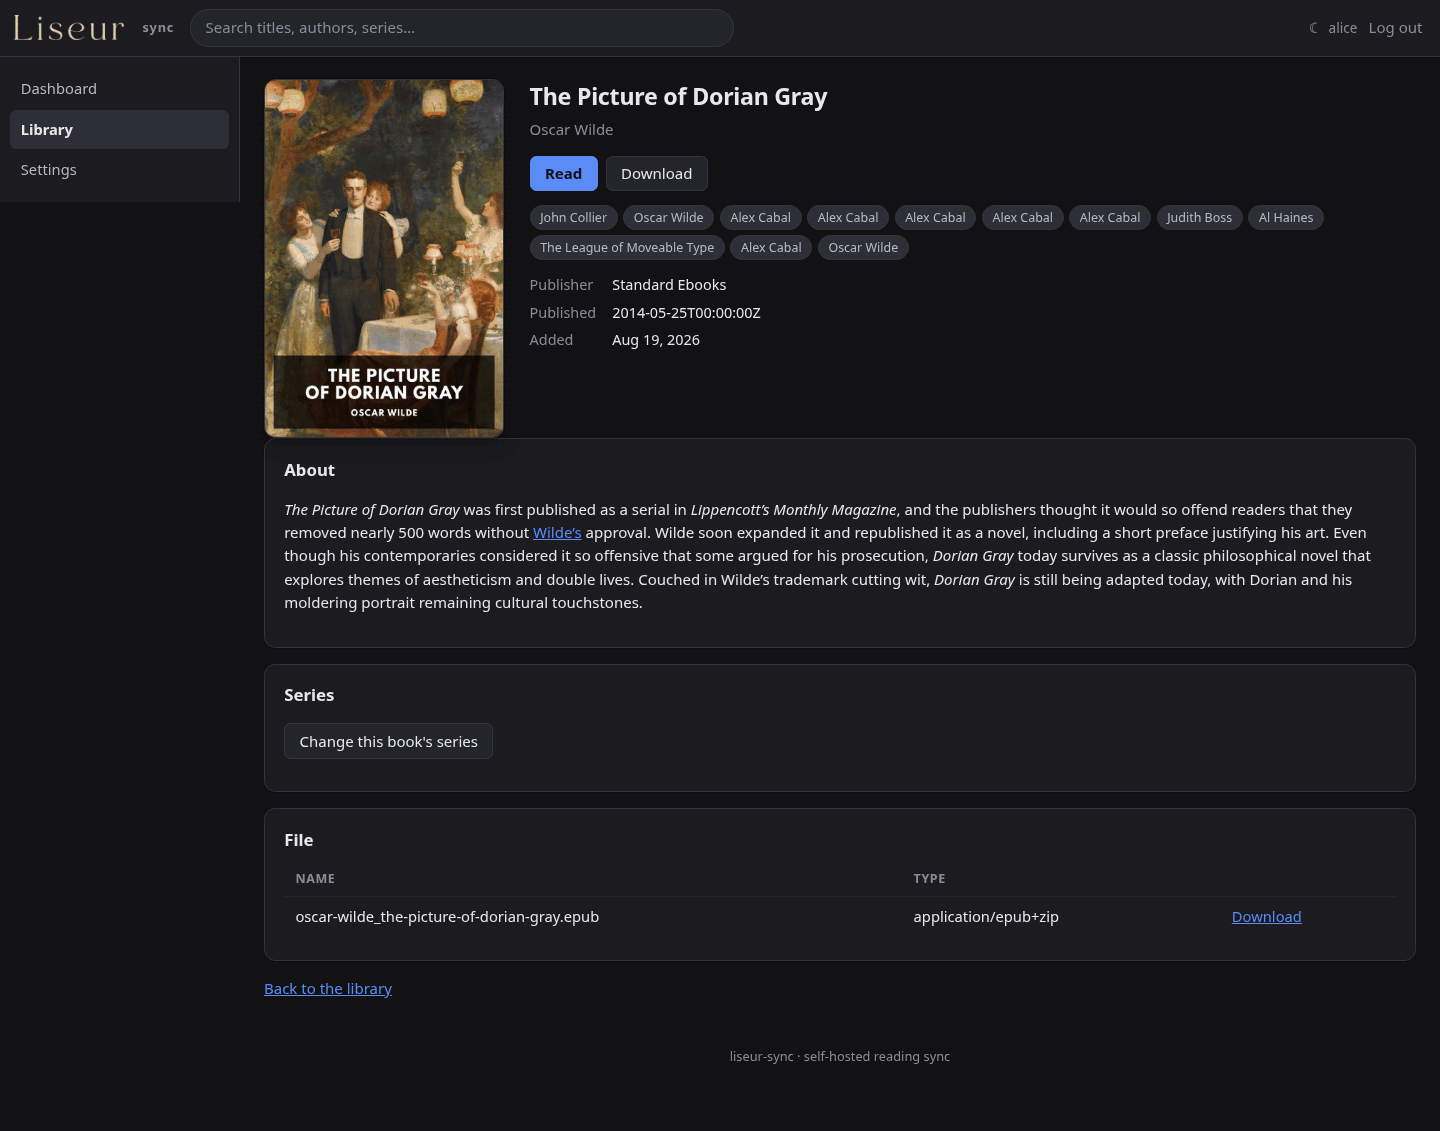
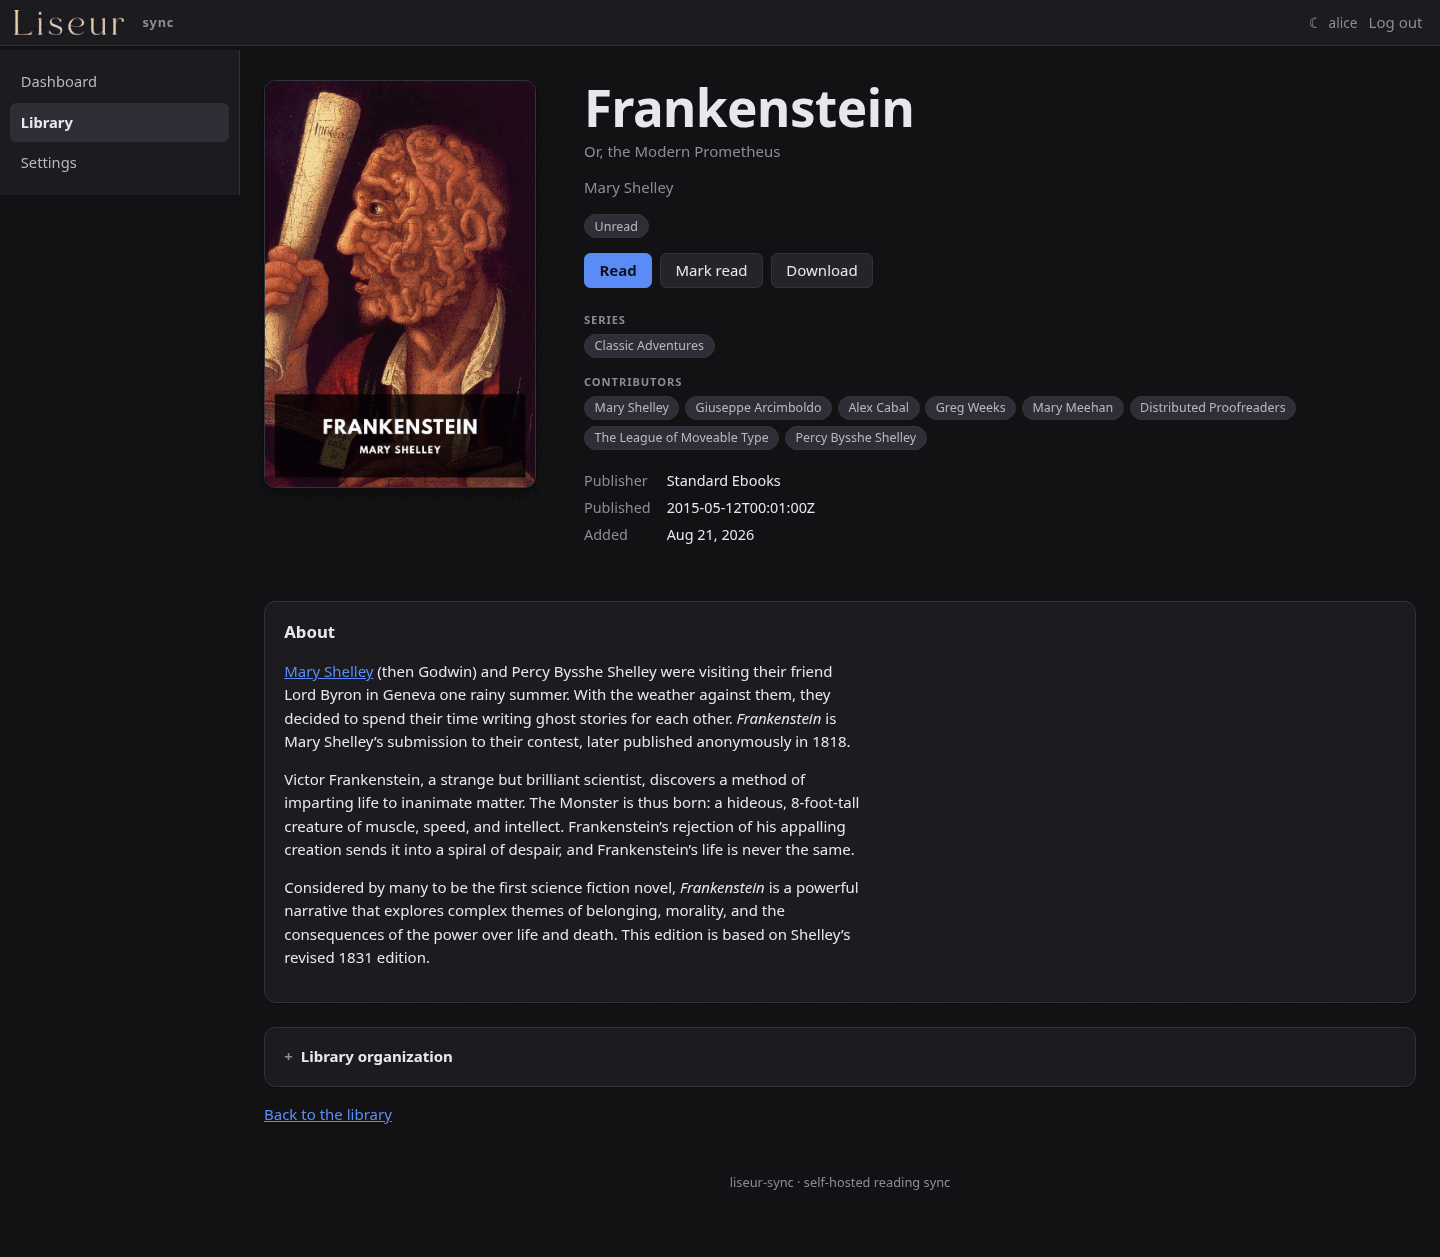
feat: refresh reading library UI

diff --git a/internal/webui/static/style.css b/internal/webui/static/style.css
@@ -40,7 +40,7 @@
 	/* A cover is taller than it is wide, and a grid that assumes one
 	   ratio is calmer than a grid that lets every publisher choose. */
 	--cover-ratio: 2 / 3;
-	--card-min: 9.5rem;
+	--card-min: 11.5rem;
 }
 
 [data-theme="light"] {
@@ -233,16 +233,6 @@ h3 { font-size: .95rem; margin: 0 0 .4rem; }
 }
 @media (max-width: 32em) { .brand .suffix { display: none; } }
 
-.topsearch { flex: 1; max-width: 34rem; margin: 0; display: flex; }
-.topsearch input {
-	width: 100%;
-	background: var(--surface-2);
-	border: 1px solid var(--line);
-	border-radius: 2rem;
-	padding: .4rem .9rem;
-}
-.topsearch input::placeholder { color: var(--muted); }
-
 .account { margin-left: auto; display: flex; align-items: center; gap: .5rem; }
 .account .who { color: var(--muted); font-size: .85rem; }
 .account form { margin: 0; }
@@ -296,7 +286,6 @@ main { grid-area: main; padding: 1.4rem 1.5rem 4rem; min-width: 0; }
 		display: block; position: fixed; inset: 0; z-index: 40;
 		background: rgb(0 0 0 / .5);
 	}
-	.topsearch { max-width: none; }
 	main { padding: 1rem .9rem 3rem; }
 }
 
@@ -516,15 +505,34 @@ a.chip:hover { background: var(--primary); border-color: var(--primary); color: 
 .viewtoggle :last-child { border-radius: 0 var(--radius-sm) var(--radius-sm) 0; }
 .viewtoggle .on { background: var(--surface-3); color: var(--ink); font-weight: 600; }
 
+.libraryhead {
+	display: flex; align-items: end; justify-content: space-between;
+	gap: 1rem; margin: 0 0 .75rem;
+}
+.libraryhead h1 { font-size: 2rem; line-height: 1.1; margin: 0; }
+.libraryhead .eyebrow { margin: 0 0 .15rem; }
+.folderpick { margin: 0; }
+.folderpick select { min-width: min(18rem, 52vw); }
+.librarytools {
+	display: flex; align-items: center; gap: .6rem; flex-wrap: wrap;
+	padding: .65rem 0 1rem; margin: 0 0 1.2rem;
+	border-bottom: 1px solid var(--line);
+}
+.librarytools form { margin: 0; display: flex; gap: .4rem; align-items: center; }
+.librarytools form:first-child { flex: 1 1 18rem; }
+.librarytools input[type="search"] { width: min(100%, 30rem); border-radius: 2rem; padding: .48rem .9rem; }
+.librarytools .spacer { flex: 1; }
+.libraryshelf { margin: 0 0 var(--gap); }
+
 /* ------------------------------------------------------------- the grid */
 
 .grid {
-	display: grid; gap: 1.1rem;
+	display: grid; gap: 1.5rem 1.25rem;
 	grid-template-columns: repeat(auto-fill, minmax(var(--card-min), 1fr));
 	margin: 0 0 var(--gap);
 }
 
-.bookcard { display: flex; flex-direction: column; gap: .45rem; min-width: 0; }
+.bookcard { display: flex; flex-direction: column; gap: .5rem; min-width: 0; }
 .bookcard .art {
 	position: relative; display: block;
 	aspect-ratio: var(--cover-ratio);
@@ -560,14 +568,14 @@ a.chip:hover { background: var(--primary); border-color: var(--primary); color: 
 .bookcard .badge.done { background: var(--ok); }
 
 .bookcard .title {
-	font-size: .87rem; font-weight: 600; color: var(--ink);
+	font-size: .95rem; font-weight: 650; color: var(--ink);
 	text-decoration: none; line-height: 1.3;
 	display: -webkit-box; -webkit-line-clamp: 2; -webkit-box-orient: vertical;
 	overflow: hidden;
 }
 .bookcard .title:hover { color: var(--primary); }
 .bookcard .by {
-	font-size: .78rem; color: var(--muted);
+	font-size: .82rem; color: var(--muted);
 	overflow: hidden; text-overflow: ellipsis; white-space: nowrap;
 }
 
@@ -650,17 +658,44 @@ button.linkish:hover, button.linkish:focus-visible {
 
 /* --------------------------------------------------------- book detail */
 
-.hero { display: flex; gap: 1.6rem; flex-wrap: wrap; align-items: flex-start; }
+.hero {
+	display: flex; gap: clamp(1.5rem, 4vw, 3rem); flex-wrap: wrap;
+	align-items: flex-start; margin: .75rem 0 2.5rem;
+}
 .hero .art {
-	flex: 0 0 15rem; max-width: 40%;
+	flex: 0 0 17rem; max-width: 42%;
 	border-radius: var(--radius); overflow: hidden;
 	border: 1px solid var(--line); box-shadow: var(--shadow);
 }
 .hero .art img { width: 100%; height: auto; display: block; }
-.hero .facts { flex: 1; min-width: 16rem; }
-.hero .facts h1 { margin-bottom: .2rem; }
+.hero .facts { flex: 1; min-width: min(100%, 18rem); max-width: 48rem; }
+.hero .facts h1 { font-size: clamp(2rem, 4vw, 3.2rem); line-height: 1.06; margin-bottom: .35rem; }
 .hero .byline { color: var(--muted); margin: 0 0 .8rem; }
 .hero .cta { display: flex; gap: .5rem; flex-wrap: wrap; margin: .9rem 0; }
+.reading-state { display: flex; align-items: center; gap: .45rem; flex-wrap: wrap; margin: .9rem 0 .3rem; }
+.reading-state .bar { margin: 0; width: 10rem; }
+.tag.done { background: color-mix(in srgb, var(--ok) 18%, var(--surface-3)); border-color: var(--ok); color: var(--ink); }
+.bookrelations { display: grid; gap: .7rem; margin: 1.2rem 0; }
+.bookrelations .chips { margin: .2rem 0 0; }
+.bookorganization { margin-top: 1.5rem; }
+.book-organization-section { padding: .9rem 0; border-top: 1px solid var(--line-soft); }
+.book-organization-section:first-of-type { border-top: 0; padding-top: .4rem; }
+.book-organization-section:last-child { padding-bottom: 0; }
+.book-organization-section > h2 { margin-bottom: .45rem; }
+.description { max-width: 68ch; }
+
+@media (max-width: 38em) {
+	.libraryhead { align-items: flex-start; flex-direction: column; }
+	.folderpick, .folderpick select { width: 100%; }
+	.librarytools { align-items: stretch; }
+	.librarytools form:first-child, .librarytools input[type="search"] { width: 100%; }
+	.librarytools .viewtoggle { margin-left: auto; }
+	.hero { gap: 1.25rem; margin-top: 0; }
+	.hero .art { flex-basis: 9rem; max-width: 38%; }
+	.hero .facts { min-width: 0; }
+	.hero .facts h1 { font-size: 2rem; }
+	.reading-state .bar { width: 8rem; }
+}
 
 .kv { display: grid; grid-template-columns: max-content 1fr; gap: .3rem 1rem; font-size: .9rem; }
 .kv dt { color: var(--muted); }
@@ -809,27 +844,40 @@ button.linkish:hover, button.linkish:focus-visible {
 /* The continue-reading banner. It repeats a card that is also in the
    grid below, which is the point: coming back to a half-read book is
    the commonest reason to open this page. */
-.resume { display: flex; gap: 1.1rem; align-items: flex-start; }
+.resume {
+	display: flex; gap: 1.25rem; align-items: flex-start;
+	padding: .2rem 0 1.5rem; margin: 0 0 1.1rem;
+	border-bottom: 1px solid var(--line);
+}
 .resume .art {
-	flex: 0 0 6.5rem; display: block; overflow: hidden;
+	flex: 0 0 7.5rem; display: block; overflow: hidden;
 	border-radius: var(--radius-sm); border: 1px solid var(--line);
 	box-shadow: var(--shadow-sm); aspect-ratio: var(--cover-ratio);
 }
 .resume .art img { width: 100%; height: 100%; object-fit: cover; display: block; }
 .resume .herotext { flex: 1; min-width: 12rem; display: flex; flex-direction: column; gap: .3rem; }
-.resume .eyebrow {
+.eyebrow {
 	font-size: .7rem; font-weight: 700; letter-spacing: .08em;
 	text-transform: uppercase; color: var(--muted);
 }
-.resume .title { font-size: 1.1rem; font-weight: 600; color: var(--ink); text-decoration: none; }
+.resume .title { font-size: 1.35rem; font-weight: 650; color: var(--ink); text-decoration: none; }
 .resume .title:hover { color: var(--primary); }
 .resume .by { color: var(--muted); font-size: .85rem; }
 .resume .bar { max-width: 22rem; }
 .resume .rowlinks { margin: .5rem 0 0; }
 
+@media (max-width: 32em) {
+	.resume .art { flex-basis: 5.5rem; }
+	.resume .title { font-size: 1.1rem; }
+	.resume .rowlinks .btn:not(.primary) { display: none; }
+}
+
 /* The filter row under the banner. A chip is a link, so a filtered
    shelf has a URL somebody can send. */
-.toolbar.filters { margin: .2rem 0 .9rem; }
+.toolbar.filters {
+	margin: .2rem 0 1.25rem; padding: .5rem 0;
+	border-bottom: 1px solid var(--line-soft);
+}
 .sortchip { display: inline-flex; gap: .35rem; align-items: center; }
 .groupseries label.check { margin: 0; white-space: nowrap; }
 .groupseries input { accent-color: var(--primary); }

diff --git a/internal/webui/books.go b/internal/webui/books.go
@@ -139,6 +139,7 @@ func (s *Server) bookView(r *http.Request, u *store.User, bookID string) (BookVi
 	v.CanRead = bookReadable(book)
 	if link, err := s.St.UserBookWork(r.Context(), readerID(u), book.ID); err == nil {
 		if ops, err := s.St.Positions(r.Context(), readerID(u), link.WorkID, 1); err == nil && len(ops) > 0 {
+			v.Progression = &ops[0].Progression
 			v.Finished = ops[0].Progression >= finished
 		}
 	}
@@ -187,16 +188,30 @@ func contributorChips(folderID string, rows []store.BookContributor) ([]ChipLink
 	chips := make([]ChipLink, 0, len(rows))
 	var authors []string
 	var everyone []string
+	seenContributors := make(map[string]struct{}, len(rows))
+	seenAuthors := make(map[string]struct{}, len(rows))
 	for _, c := range rows {
-		chips = append(chips, ChipLink{
-			Name: c.Name,
-			URL:  entityURL(folderID, "contributors", c.ContributorID),
-		})
-		everyone = append(everyone, c.Name)
-		if c.Role == "" || strings.EqualFold(c.Role, store.ContributorRoleAuthor) ||
-			strings.EqualFold(c.Role, "aut") {
-			authors = append(authors, c.Name)
+		key := c.ContributorID
+		if key == "" {
+			key = c.Name
 		}
+		if _, seen := seenContributors[key]; !seen {
+			chips = append(chips, ChipLink{
+				Name: c.Name,
+				URL:  entityURL(folderID, "contributors", c.ContributorID),
+			})
+			everyone = append(everyone, c.Name)
+			seenContributors[key] = struct{}{}
+		}
+		if c.Role != "" && !strings.EqualFold(c.Role, store.ContributorRoleAuthor) &&
+			!strings.EqualFold(c.Role, "aut") {
+			continue
+		}
+		if _, seen := seenAuthors[key]; seen {
+			continue
+		}
+		seenAuthors[key] = struct{}{}
+		authors = append(authors, c.Name)
 	}
 	if len(authors) == 0 {
 		authors = everyone

diff --git a/internal/webui/books_ext_test.go b/internal/webui/books_ext_test.go
@@ -337,7 +337,7 @@ func TestBookReadingStatusCanBeToggled(t *testing.T) {
 	bookID := f.addBook(t, "toggle", []byte(strings.Repeat("web-epub", 50)))
 
 	resp, page := f.get(t, "/ui/books/"+bookID, f.cookie)
-	if resp.StatusCode != http.StatusOK || !strings.Contains(page, "Mark read") {
+	if resp.StatusCode != http.StatusOK || !strings.Contains(page, "Mark read") || !strings.Contains(page, ">Unread<") {
 		t.Fatalf("new book should offer mark read: status=%d page=%s", resp.StatusCode, page)
 	}
 	resp = f.postForm(t, "/ui/books/"+bookID+"/reading-status", f.cookie, url.Values{
@@ -356,7 +356,7 @@ func TestBookReadingStatusCanBeToggled(t *testing.T) {
 		t.Fatalf("mark read position: ops=%+v err=%v", ops, err)
 	}
 	_, page = f.get(t, "/ui/books/"+bookID, f.cookie)
-	if !strings.Contains(page, "Mark unread") {
+	if !strings.Contains(page, "Mark unread") || !strings.Contains(page, ">Finished<") {
 		t.Fatalf("read book should offer mark unread: %s", page)
 	}
 
@@ -371,7 +371,7 @@ func TestBookReadingStatusCanBeToggled(t *testing.T) {
 		t.Fatalf("mark unread position: ops=%+v err=%v", ops, err)
 	}
 	_, page = f.get(t, "/ui/books/"+bookID, f.cookie)
-	if !strings.Contains(page, "Mark read") {
+	if !strings.Contains(page, "Mark read") || !strings.Contains(page, ">Unread<") {
 		t.Fatalf("unread book should offer mark read: %s", page)
 	}
 }

diff --git a/internal/webui/search_ext_test.go b/internal/webui/search_ext_test.go
@@ -91,8 +91,11 @@ func TestSearchIsOfferedOnTheLibraryPageAndScopedToTheLibrary(t *testing.T) {
 	bookWithMetadata(t, f, "offered")
 
 	_, books := f.get(t, "/ui/library?folder="+f.folder, f.cookie)
-	if !strings.Contains(books, "/search") {
+	if !strings.Contains(books, `action="folders/`+f.folder+`/search"`) {
 		t.Fatalf("the library page offered no way to search it:\n%s", books)
+	}
+	if strings.Contains(books, `class="topsearch"`) {
+		t.Fatalf("the library page still has a second, ambiguous top-bar search:\n%s", books)
 	}
 
 	// Every signed-in account may search every folder (ADR-0017); a

diff --git a/README.md b/README.md
@@ -12,7 +12,7 @@ optional, multi-user.
 
 ![The dashboard](docs/screenshots/dashboard.png)
 
-![The library](docs/screenshots/library.png)
+![The reader-first library](docs/screenshots/library.png)
 
 ## Why liseur-sync
 
@@ -86,12 +86,12 @@ rendered covers in its cache directory.
 liseur-sync admin folder-uploads <folder-id> on
 ```
 
-Browse by series, contributor, or tag, and search across the collection.
+Browse by series, contributor, or tag, and search within a selected folder.
 In a plain folder, the directory tree is the organisation: a
 subdirectory of EPUBs is a series. In a Calibre library, `metadata.db`
 is read as the curator's catalog.
 
-![A book](docs/screenshots/book.png)
+![Book details and reading status](docs/screenshots/book.png)
 
 ## Web reader
 
